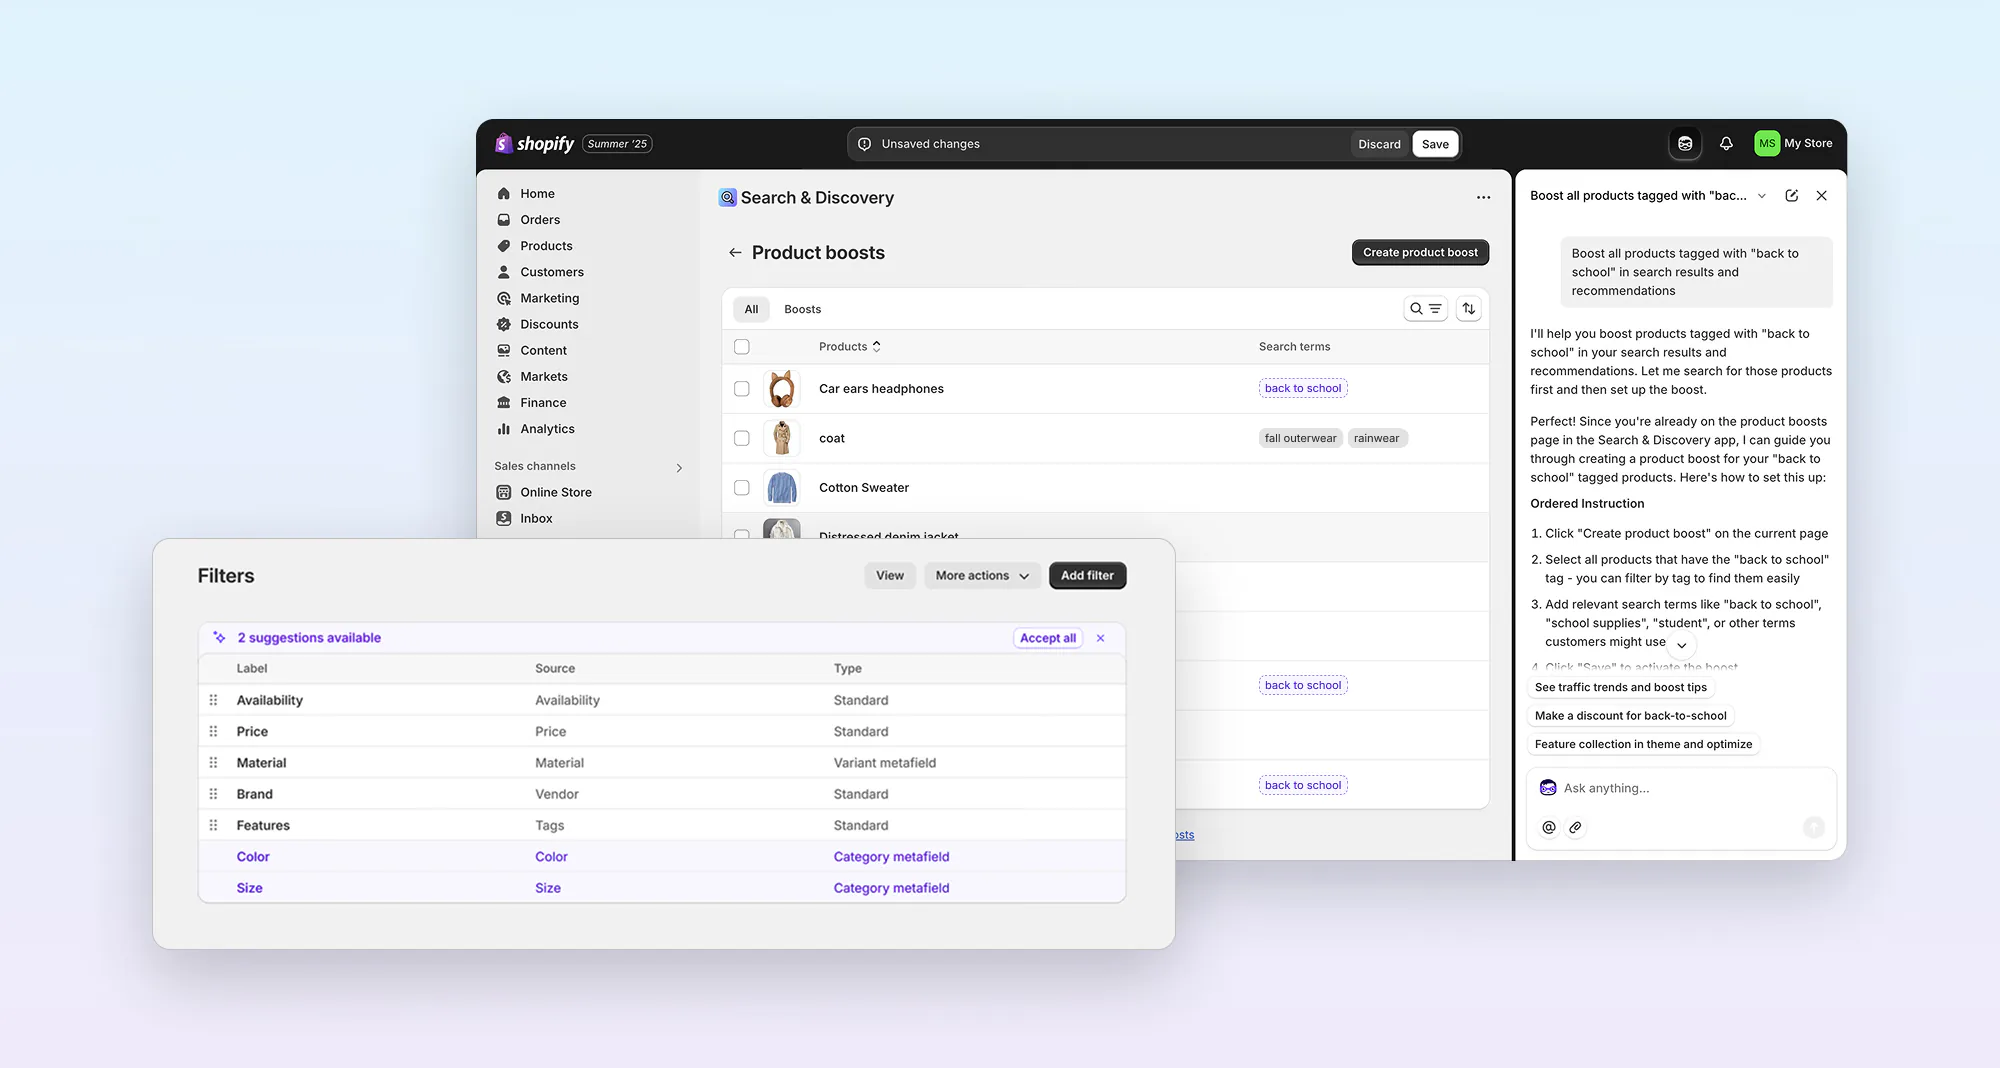
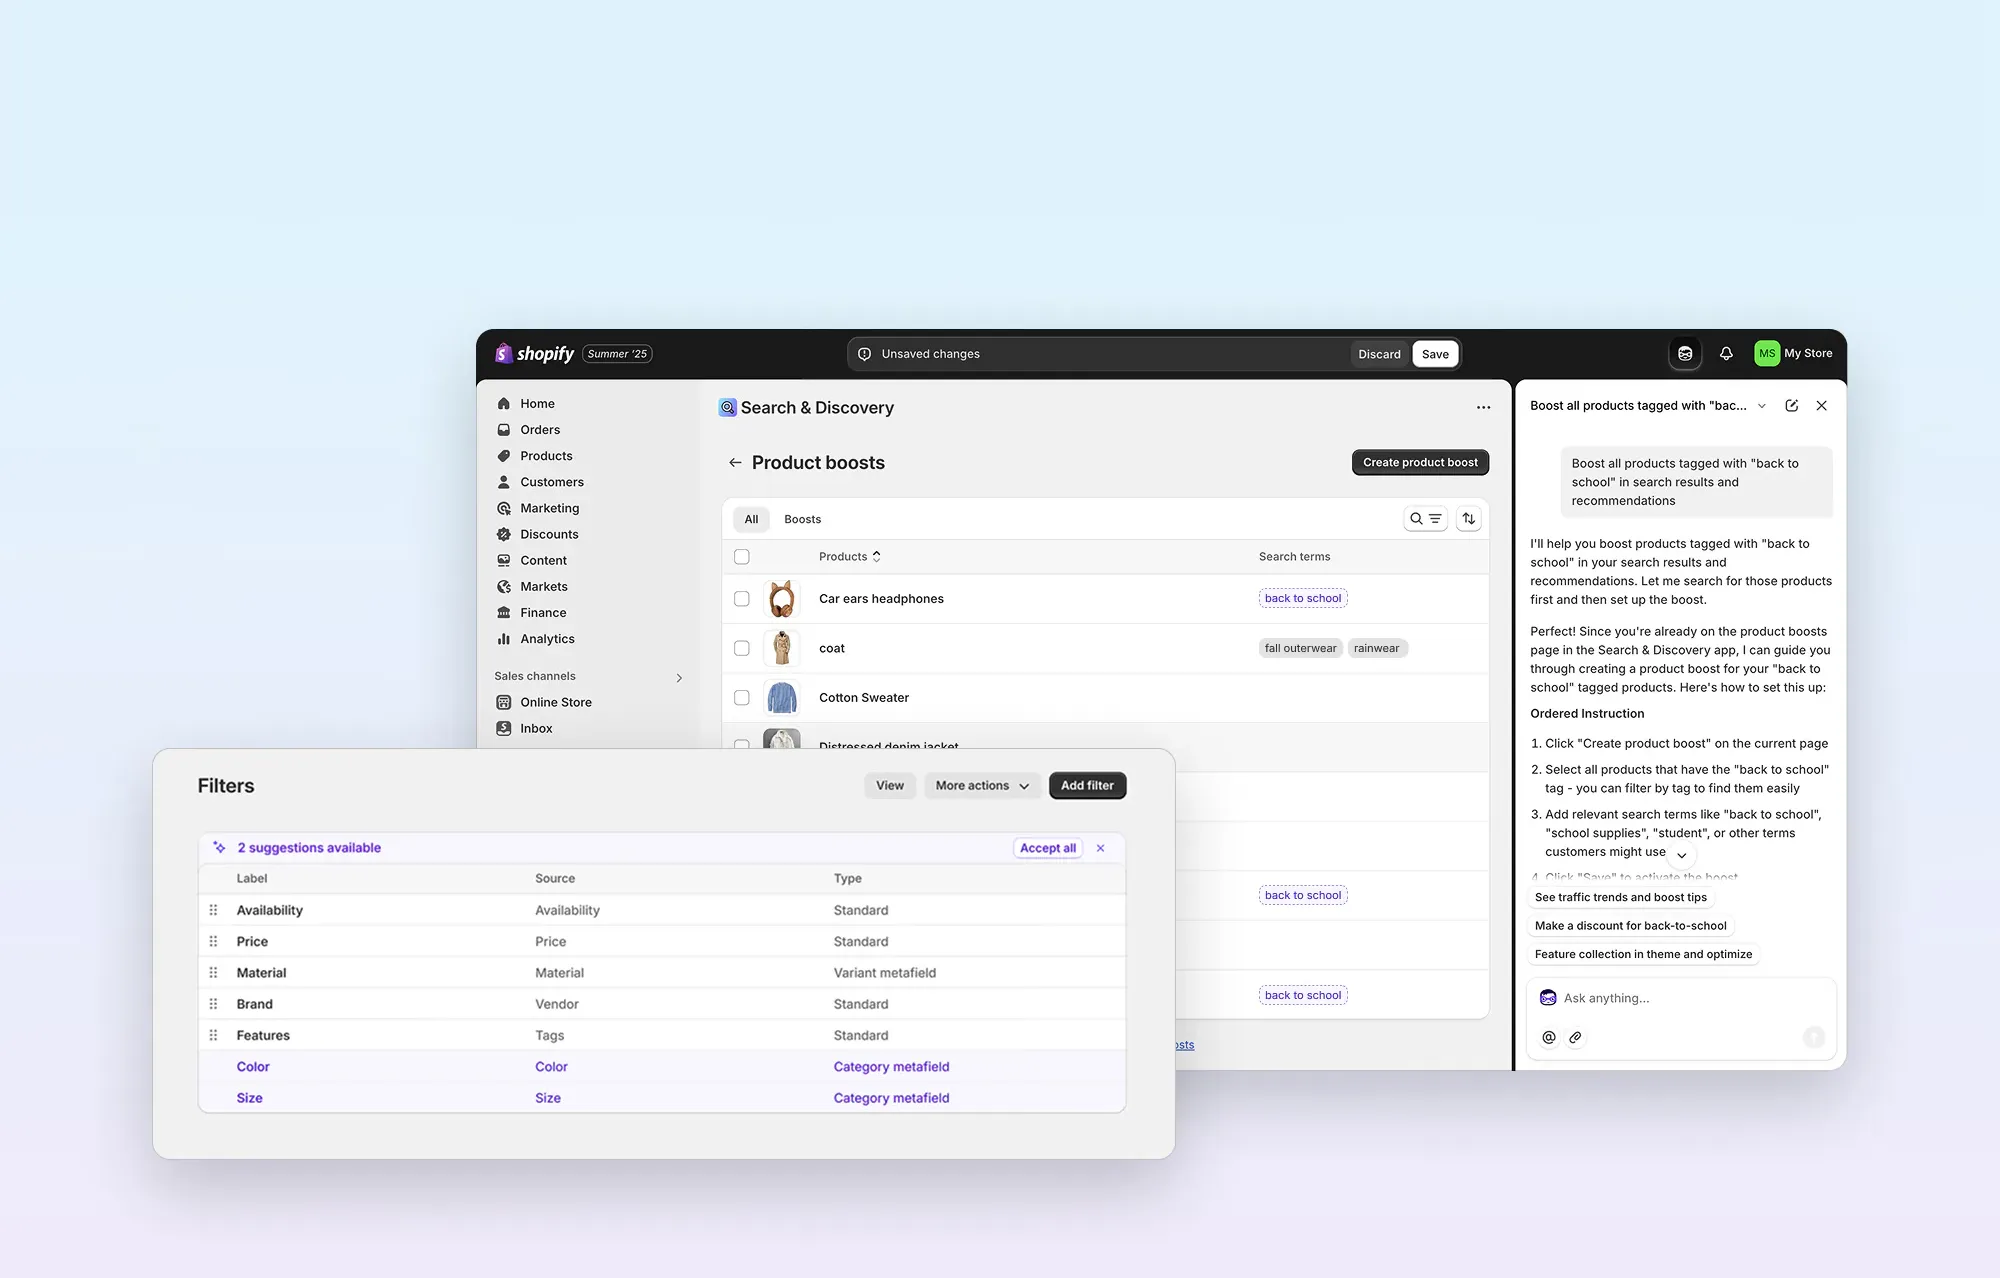
Shopify gallery: match Brightwave's aspect ratio
Extend each image's background at the top (UI untouched, still bleeds off
the bottom) so all frames are 2400:1534.

Claude-Session: https://claude.ai/code/session_015xVoT4PSB2yyePY6a4F4ky

diff --git a/src/work/content.js b/src/work/content.js
@@ -78,14 +78,14 @@ export const companies = [
       { title: 'Apps in admin', href: '#' },
     ],
     gallery: [
-      { size: 'large', ratio: '2000 / 1068', src: '/work/shopify/1.webp', title: 'Search & Discovery app home with search performance' },
-      { size: 'large', ratio: '2000 / 1068', src: '/work/shopify/2.webp', title: 'Building a storefront filter' },
-      { size: 'large', ratio: '2000 / 1068', src: '/work/shopify/3.webp', title: 'Product recommendations in admin' },
-      { size: 'large', ratio: '2000 / 1068', src: '/work/shopify/4.webp', title: 'Bulk editing complementary and related products' },
-      { size: 'large', ratio: '2000 / 1068', src: '/work/shopify/5.webp', title: 'Product boosts and filter suggestions' },
-      { size: 'large', ratio: '2000 / 1250', src: '/work/shopify/6.webp', title: 'Semantic search settings and storefront results' },
-      { size: 'large', ratio: '2000 / 1068', src: '/work/shopify/7.webp', title: 'Subscriptions in admin' },
-      { size: 'large', ratio: '2000 / 1068', src: '/work/shopify/8.webp', title: 'Subscribe and save on a product page' },
+      { size: 'large', ratio: '2000 / 1278', src: '/work/shopify/1.webp', title: 'Search & Discovery app home with search performance' },
+      { size: 'large', ratio: '2000 / 1278', src: '/work/shopify/2.webp', title: 'Building a storefront filter' },
+      { size: 'large', ratio: '2000 / 1278', src: '/work/shopify/3.webp', title: 'Product recommendations in admin' },
+      { size: 'large', ratio: '2000 / 1278', src: '/work/shopify/4.webp', title: 'Bulk editing complementary and related products' },
+      { size: 'large', ratio: '2000 / 1278', src: '/work/shopify/5.webp', title: 'Product boosts and filter suggestions' },
+      { size: 'large', ratio: '2000 / 1278', src: '/work/shopify/6.webp', title: 'Semantic search settings and storefront results' },
+      { size: 'large', ratio: '2000 / 1278', src: '/work/shopify/7.webp', title: 'Subscriptions in admin' },
+      { size: 'large', ratio: '2000 / 1278', src: '/work/shopify/8.webp', title: 'Subscribe and save on a product page' },
     ],
   },
   {
